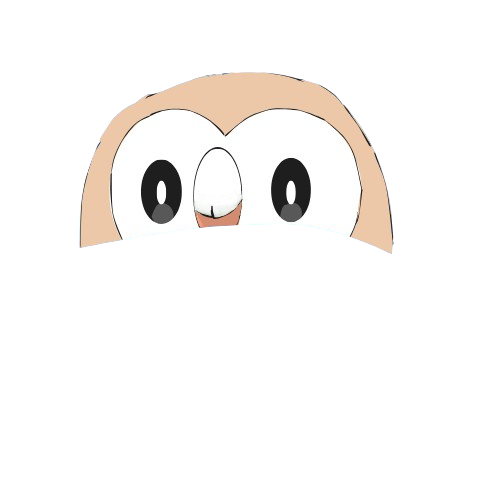
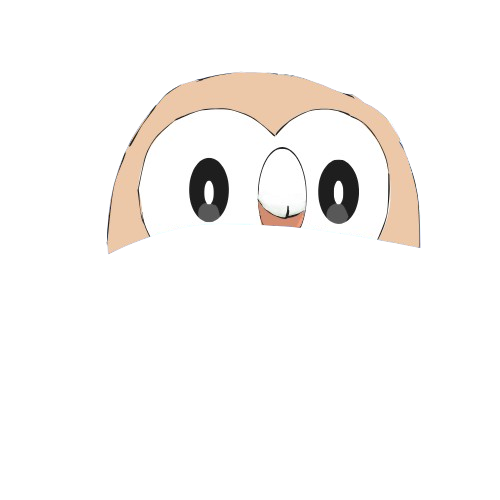
fixed the rowlet hat and resized headband, still working on some intricacies

Changed region(s): [[0.15, 0.15, 0.84, 0.51], [0.57, 0.15, 0.66, 0.18]]

diff --git a/wooper.html b/wooper.html
@@ -33,7 +33,7 @@
             <img class="santaHat" src="santahat.png" id="santahat" alt="Santa hat">
             <img class="rowletHat" src="rowlet-hat.png" id="rowlet" alt="Rowlet Hat">
             <img class="bow" src="bow.png" id="bow" alt="Bow">
-            <img class="Headband noFlip" src="2025-Headband.png" id="headband" alt="Headband">
+            <img class="Headband" src="2025-Headband.png" id="headband" alt="Headband">
             <img class="wooper" onclick="moneyCounter()" src="content-wooper.png" alt="normal_wooper">
         </div>
     </div>

diff --git a/style.css b/style.css
@@ -134,10 +134,7 @@ html {
 
 #ShopPic {
     position: fixed;
-    top:30px;
-    width: 120px; 
-    height: 120px;
-    left: 10px; 
+    
     
 
 }
@@ -232,9 +229,10 @@ html {
     position: relative;
     width: 170px;
     height: 200px;   
-    left: 30px;
-    top: 90px;
+    left: 25px;
+    top: 135px;
     z-index: 1;
+    transform: scaleX(-1); 
 }
 
 
@@ -247,8 +245,9 @@ html {
 }
 #wooperSprite> .Headband{
     position: relative;
-    size: 40px;
-    top: 75px;
+    width: 90px;
+    top: 63px;
+    left: 40px;
     z-index: 1;
 }
 
